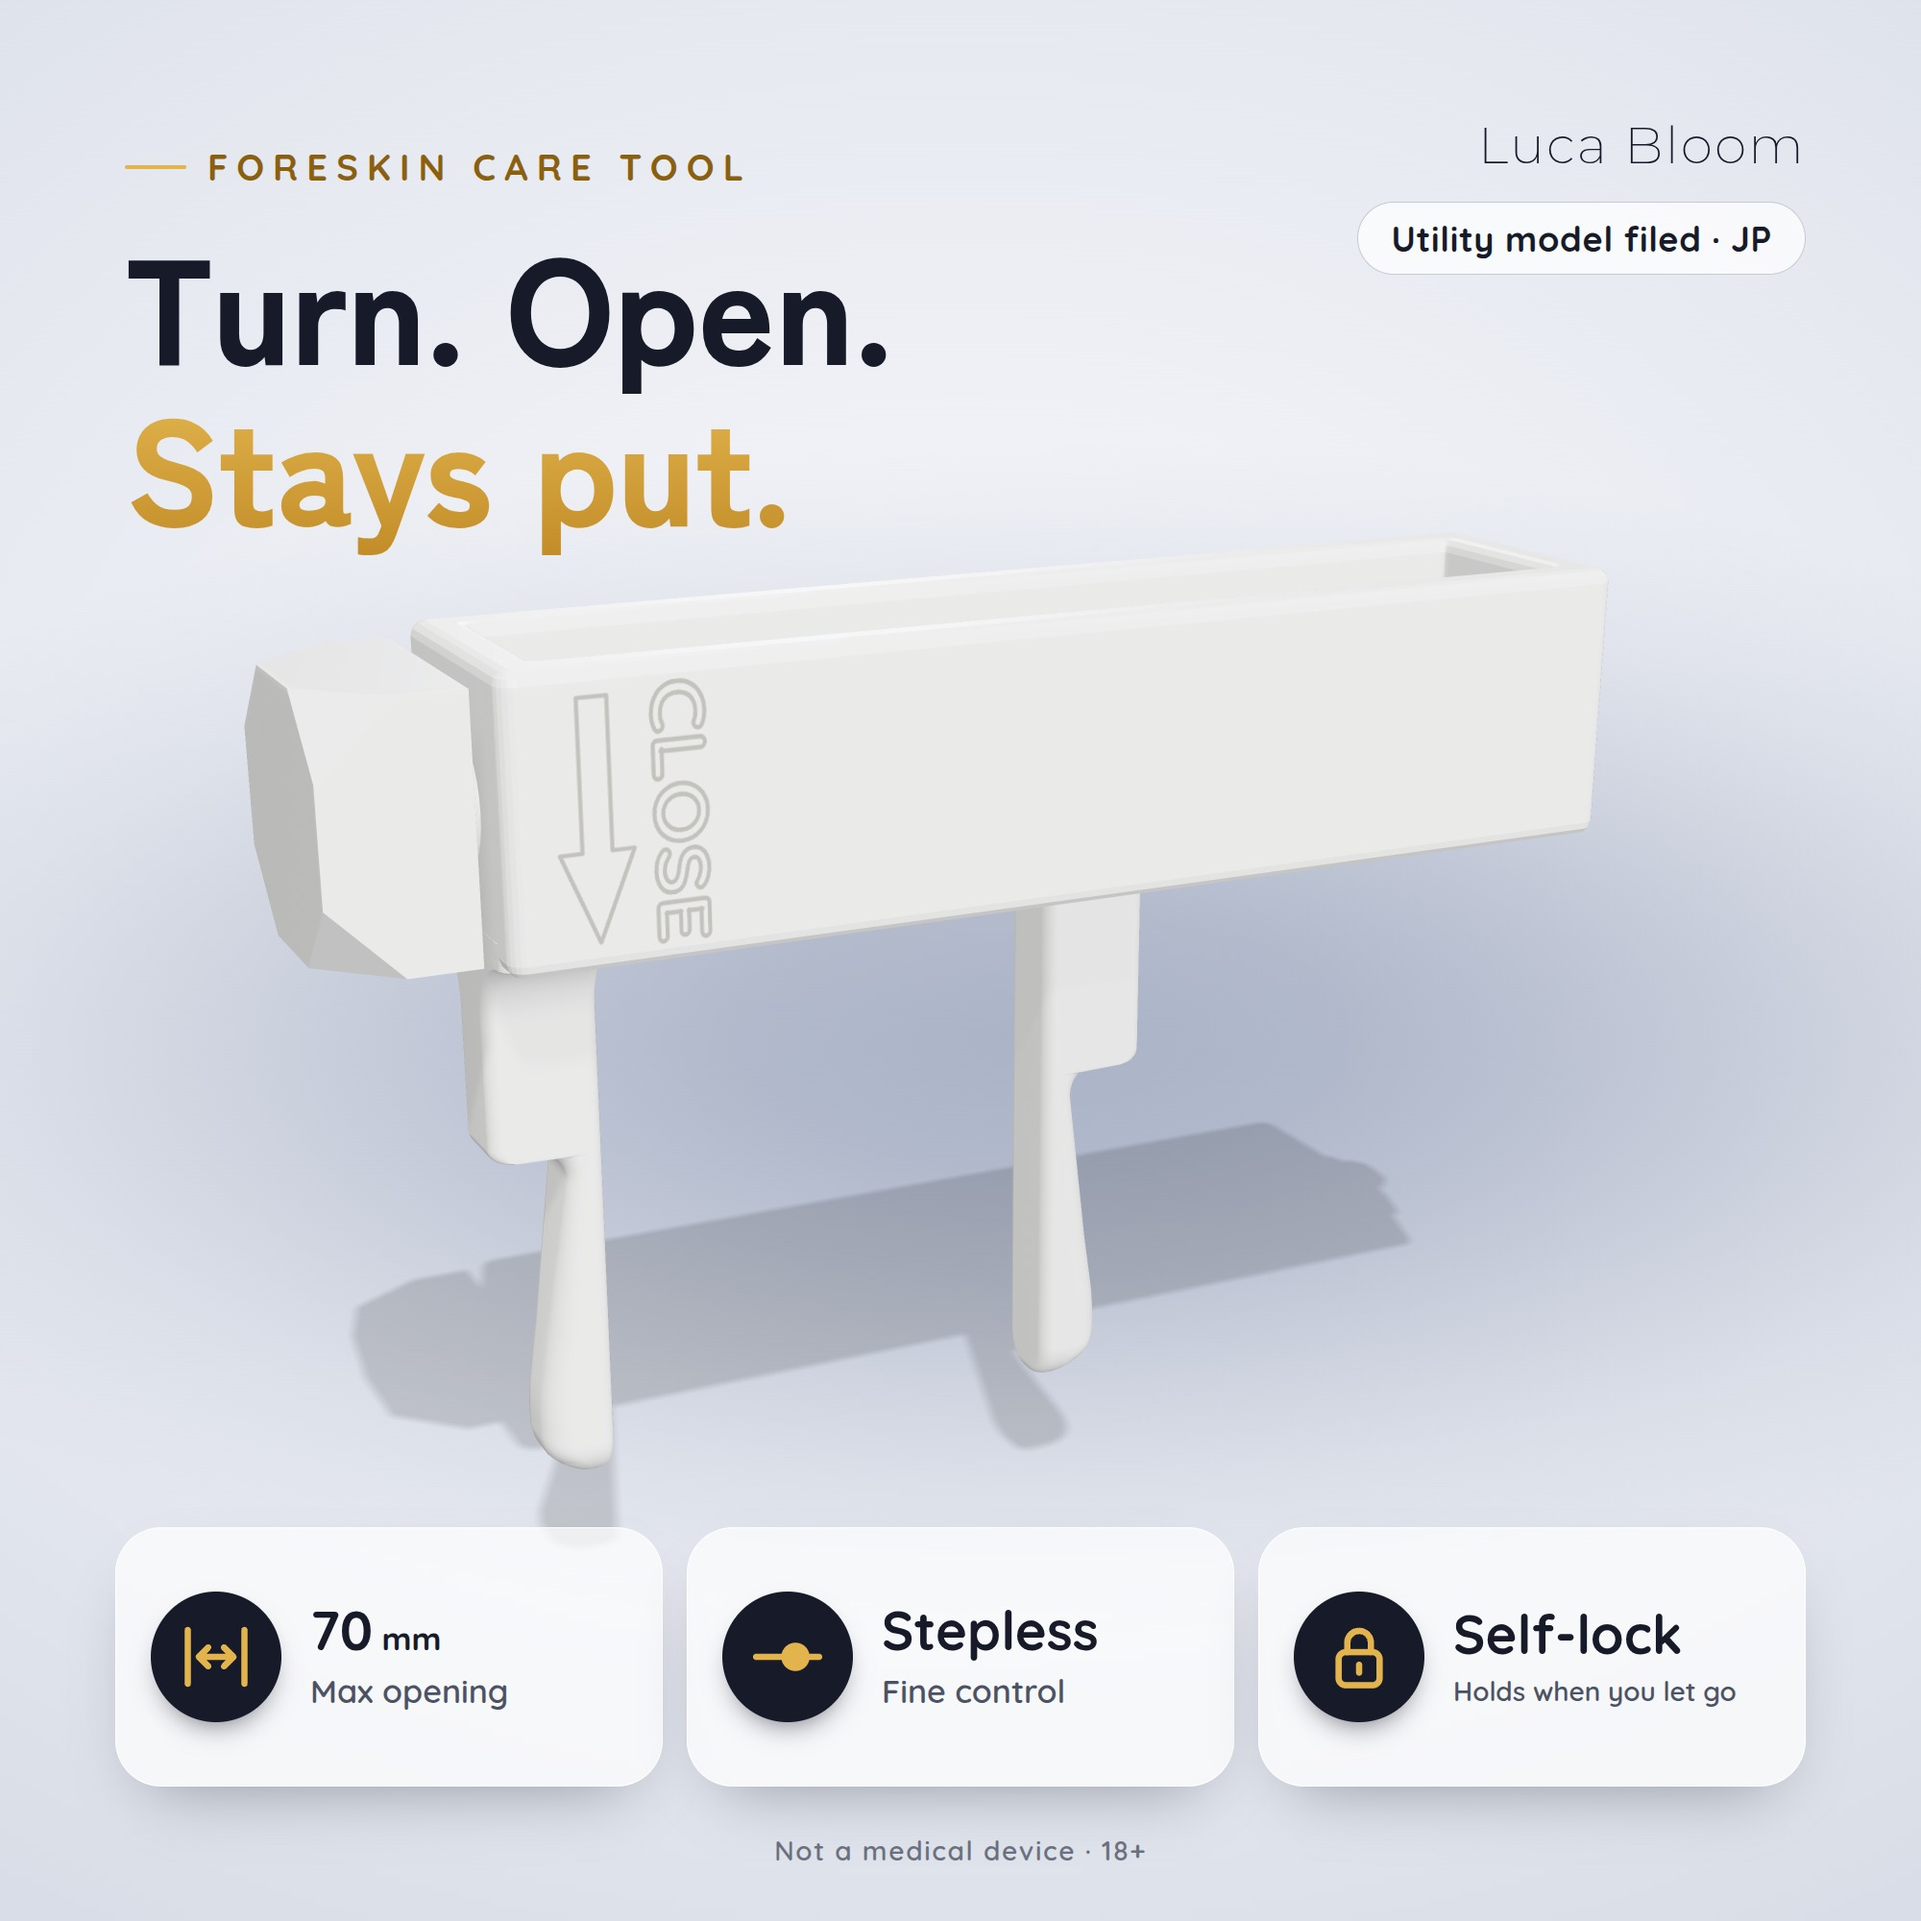
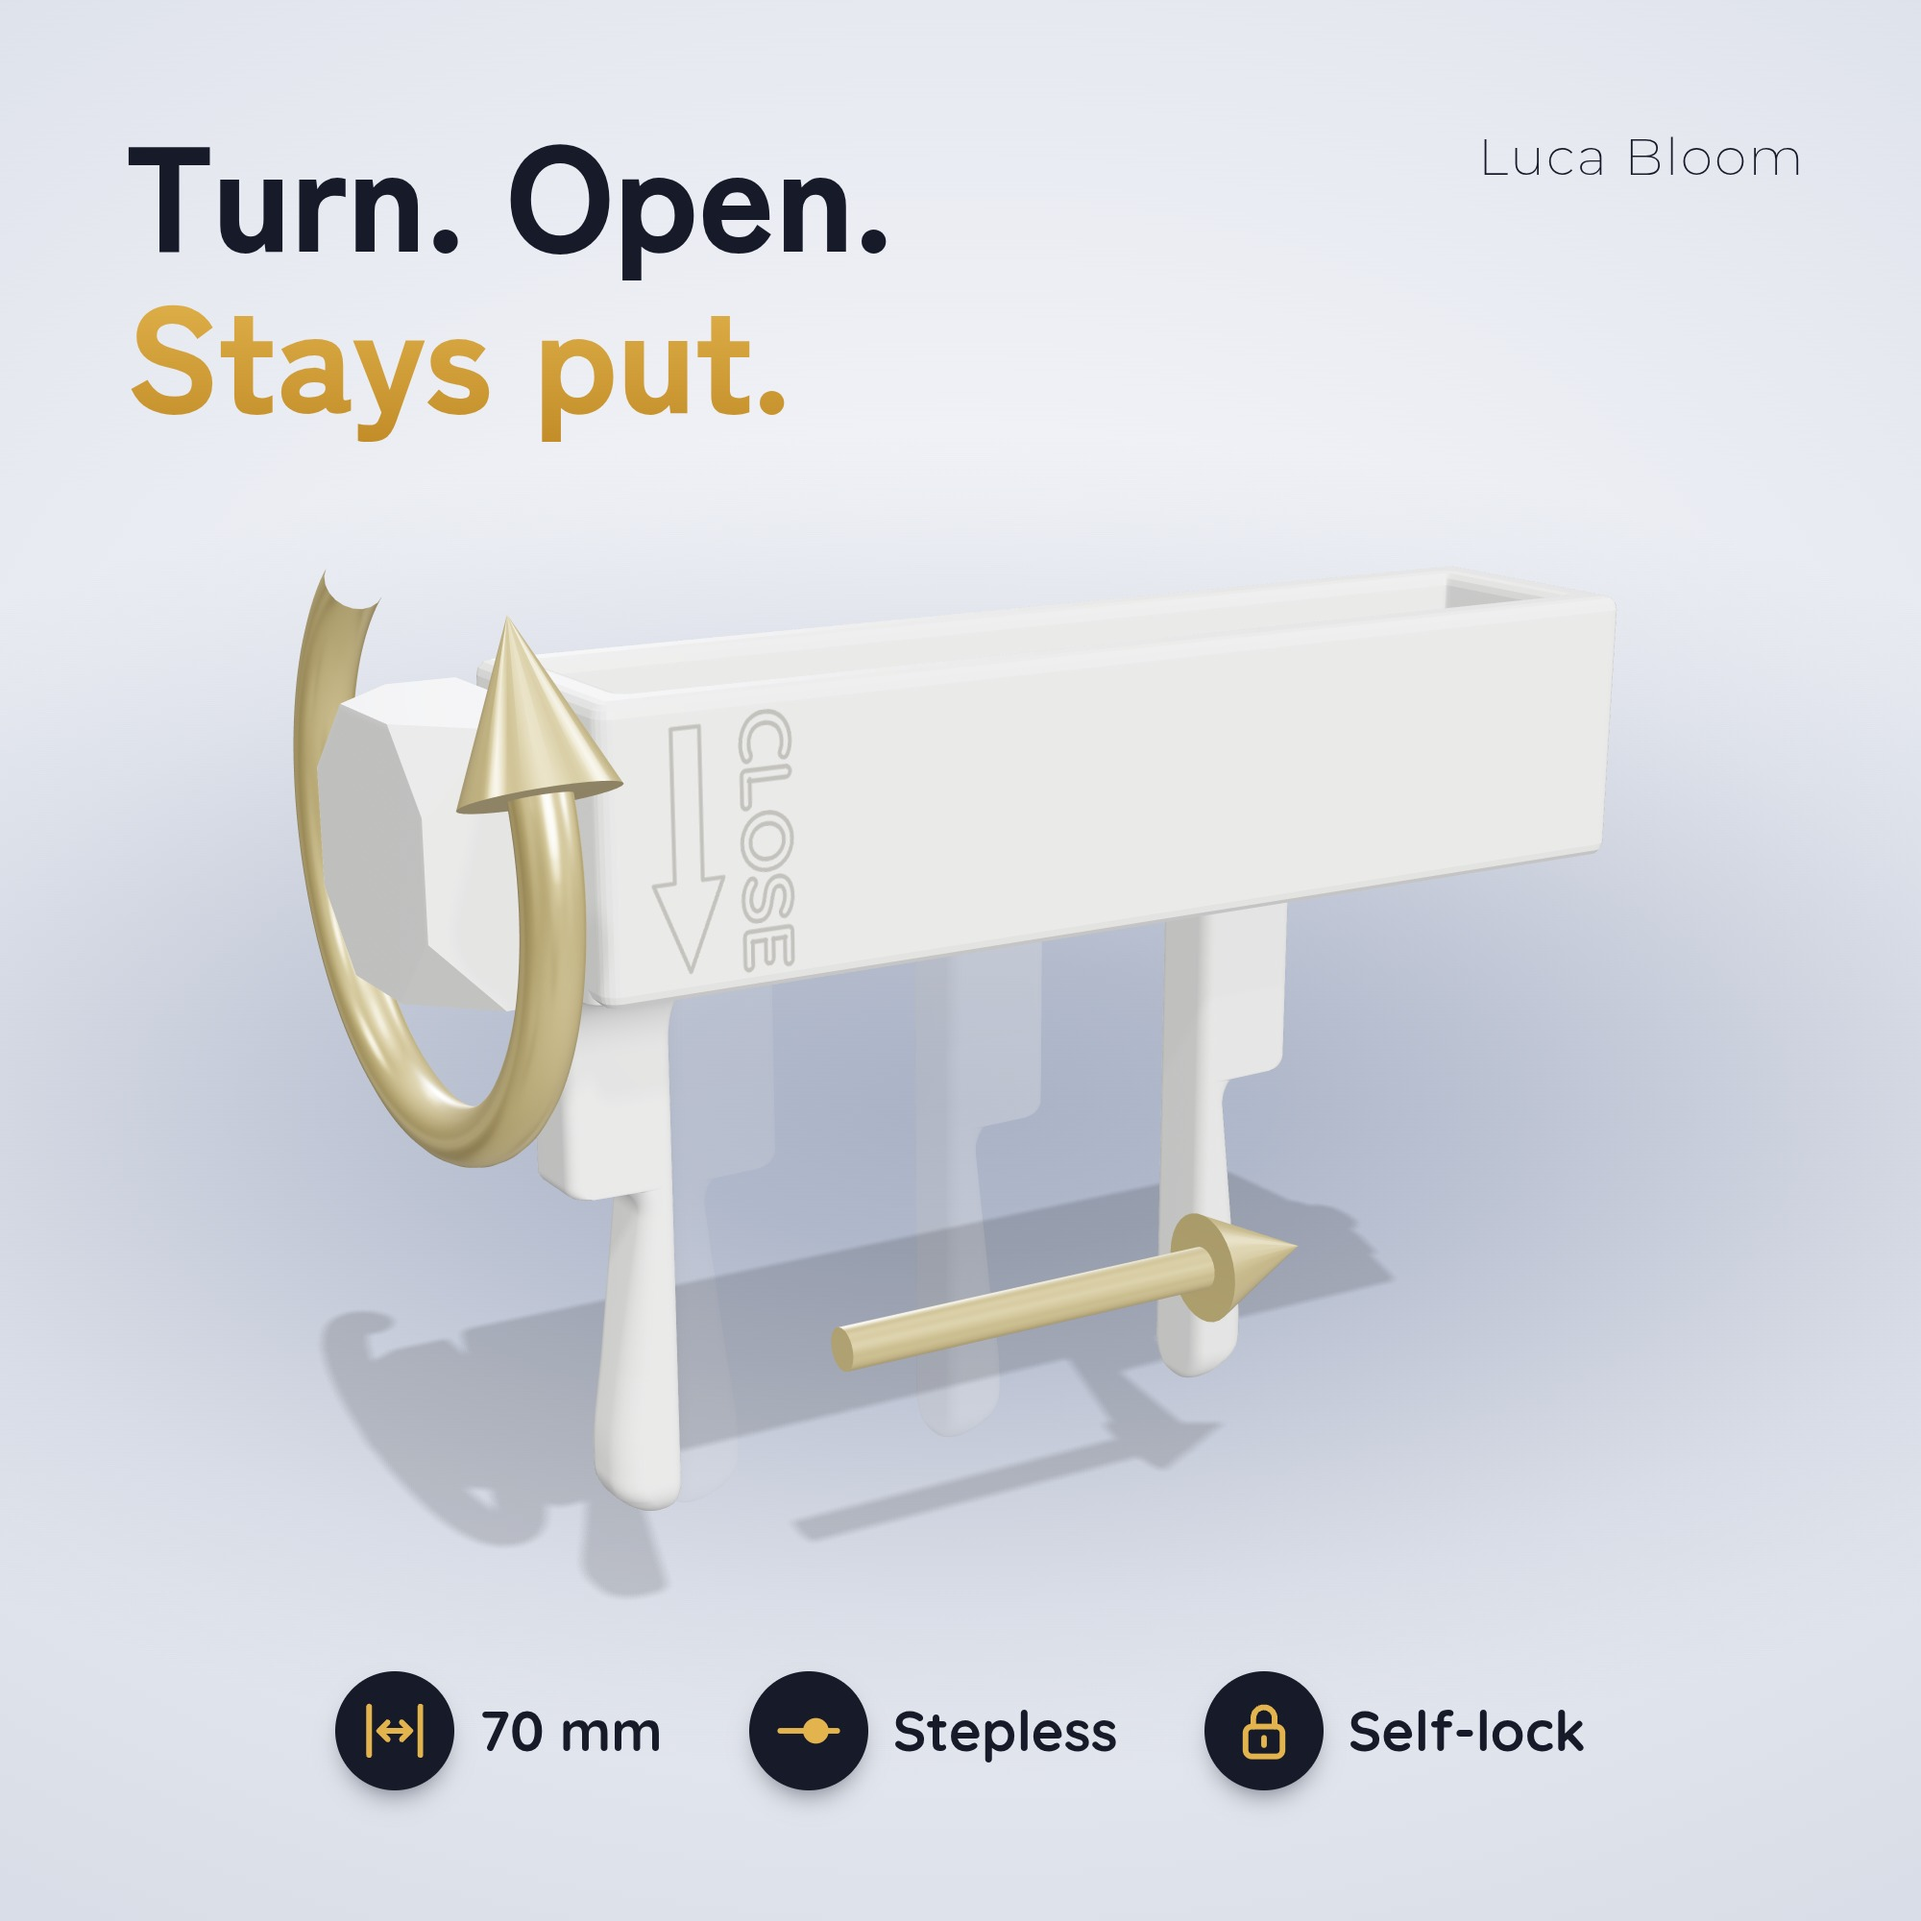
Amazon商品画像の作り直し：文字を見出しと数字だけに、閉じた時の寸法（10mm・くぼみ部5mm）、立体の回転の矢印、2本のアームで膜を押し広げる図、図面どおりのアーム断面
Claude-Session: https://claude.ai/code/session_016YenGTG3x62jvD6ZRQeA6d

diff --git a/tools/amazon/shots.js b/tools/amazon/shots.js
@@ -3,10 +3,14 @@
 import {
   ACESFilmicToneMapping,
   Box3,
+  CatmullRomCurve3,
+  ConeGeometry,
+  CylinderGeometry,
   DirectionalLight,
   Group,
   HemisphereLight,
   Mesh,
+  MeshStandardMaterial,
   NoToneMapping,
   OrthographicCamera,
   PCFSoftShadowMap,
@@ -16,6 +20,7 @@ import {
   Scene,
   ShadowMaterial,
   SRGBColorSpace,
+  TubeGeometry,
   Vector3,
   WebGLRenderer,
 } from 'three';
@@ -74,6 +79,55 @@ device.dev.traverse((o) => {
 // アームの部品（開き幅の寸法線に使う）：固定アーム＝本体に直接付いた x=-34.5 の部品、駆動アーム＝mover の最初の部品
 const fixedArm = device.dev.children.find((o) => o.isMesh && Math.abs(o.position.x + 34.5) < 1e-6);
 const moverArm = device.mover.children[0];
+
+// ---------- 金色の立体の矢印（ハンドルの回転・アームの動き・膜を押し広げる向き） ----------
+const GOLD = new MeshStandardMaterial({ color: 0xe3b34e, metalness: 0.65, roughness: 0.28, envMapIntensity: 1.3 });
+const UP = new Vector3(0, 1, 0);
+// 先端の円すい（位置 p、向き t）
+const tip = (p, t, r, h) => {
+  const m = new Mesh(new ConeGeometry(r, h, 32), GOLD);
+  m.quaternion.setFromUnitVectors(UP, t.clone().normalize());
+  m.position.copy(p).addScaledVector(t.clone().normalize(), h / 2);
+  m.castShadow = true;
+  return m;
+};
+// ハンドルの回転の矢印：ハンドルの軸（x 方向、高さ y=10）を囲む輪。手前側で上へ回る向き＝アームが開く向き
+const turnArrow = new Group();
+{
+  const R = 19;
+  const X = -50;
+  const P = (f) => new Vector3(X, 10 + R * Math.sin(f), R * Math.cos(f));
+  // 奥の上から下を回って手前を上がり、矢じりは手前で上を向く
+  const f0 = (-235 * Math.PI) / 180;
+  const f1 = (20 * Math.PI) / 180;
+  const pts = [];
+  for (let i = 0; i <= 80; i++) pts.push(P(f0 + ((f1 - f0) * i) / 80));
+  const tube = new Mesh(new TubeGeometry(new CatmullRomCurve3(pts), 160, 2, 20, false), GOLD);
+  tube.castShadow = true;
+  turnArrow.add(tube);
+  turnArrow.add(tip(P(f1), new Vector3(0, Math.cos(f1), -Math.sin(f1)), 5, 11));
+}
+device.dev.add(turnArrow);
+// 直線の矢印（a → b）
+const straightArrow = (a, b, r = 1.6) => {
+  const g = new Group();
+  const d = b.clone().sub(a);
+  const len = d.length() - 9;
+  const shaft = new Mesh(new CylinderGeometry(r, r, len, 24), GOLD);
+  shaft.quaternion.setFromUnitVectors(UP, d.clone().normalize());
+  shaft.position.copy(a).addScaledVector(d.clone().normalize(), len / 2);
+  shaft.castShadow = true;
+  g.add(shaft);
+  g.add(tip(a.clone().addScaledVector(d.clone().normalize(), len), d, r * 2.6, 9));
+  return g;
+};
+// アームが開く向き（アームの前、高さ y=-28）
+const moveArrow = straightArrow(new Vector3(-24, -28, 7), new Vector3(16, -28, 7));
+device.dev.add(moveArrow);
+// 膜を左右へ押し広げる向き（膜の口の高さ。位置は shot のたびにアームに合わせる）
+const pushL = new Group();
+const pushR = new Group();
+device.dev.add(pushL, pushR);
 
 function seeThrough(on) {
   const { housing, decal, decalBack } = device;
@@ -151,6 +205,17 @@ window.shot = (o) => {
   updateSleeve(t);
   sleeve.visible = !!o.sleeve;
   seeThrough(!!o.see);
+  turnArrow.visible = !!o.turnArrow;
+  moveArrow.visible = !!o.moveArrow;
+  pushL.clear();
+  pushR.clear();
+  if (o.pushArrows) {
+    const y = o.pushY ?? -22;
+    const xl = -34.5 - 3.6; // 固定アームの外側（くびれ部）
+    const xr = -34.5 + t + 3.6; // 駆動アームの外側
+    pushL.add(straightArrow(new Vector3(xl - 2, y, 0), new Vector3(xl - 16, y, 0), 1.3));
+    pushR.add(straightArrow(new Vector3(xr + 2, y, 0), new Vector3(xr + 16, y, 0), 1.3));
+  }
   ground.visible = o.shadow !== false;
   model.rotation.set(((o.pitch ?? 0) * Math.PI) / 180, ((o.yaw ?? 0) * Math.PI) / 180, 0);
   model.updateMatrixWorld(true);

diff --git a/amazon/README.md b/amazon/README.md
@@ -5,14 +5,15 @@
 
 ## 画像（2000×2000・JPEG・4枚）
 
-細かい説明は動画に任せ、画像は「見て欲しくなる」ことを優先する。大きな 3D の製品、短い英単語の見出し（日本の方にも読める簡単な語）、記号・数字で特長を伝える。
+細かい説明は動画に任せ、画像は「見て欲しくなる」ことを優先する。文字は見出しと数字だけ（簡単な英語）。
+本体・化粧箱・金色の立体の矢印は 3Dモデルで描く。
 
-| ファイル | 見出し | 伝えること |
+| ファイル | 見出し | 見せること |
 |---|---|---|
-| `01-hero.jpg` | Turn. Open. Stays put. | 製品の全体と3つの特長（最大70mm・無段階・手を離しても止まる） |
-| `02-open.jpg` | Opens up to 70 mm. | ハンドルを回すと2本のアームが平行に開く（1回転2mm）。無段階で、手を離すとその幅で止まる |
-| `03-arms.jpg` | Wide tips. Stays in place. | 先端が太い「逆テーパー」のアームと、幅6mm・角R2の平らな面 |
-| `04-privacy.jpg` | Discreet by design. | 化粧箱は「Luca Bloom」の文字だけ・外箱に入れて発送・日本で検品と組立。寸法・素材・製造国（中国）・18歳以上 |
+| `01-hero.jpg` | Turn. Open. Stays put. | ハンドルを囲む立体の回転の矢印と、アームが開く動き（残像）。70 mm・Stepless・Self-lock |
+| `02-size.jpg` | 10 → 70 mm | 閉じた時（先端の外側10mm・くぼみ部5mm）と、開いた時（70mm）。ハンドル1回転で2mm |
+| `03-hold.jpg` | Wide tips. Stays in place. | 2本のアームが膜（ピンク）を内側から押し広げ、膜の口はくびれ部に収まる。アームの断面（図面どおり：幅6mm×厚さ5mm、肌側の角R2・内側R1） |
+| `04-privacy.jpg` | Discreet by design. | 「Luca Bloom」の文字だけの化粧箱と、専用のクッション材に収まった本体。製造国（中国）・日本で検品と組立・18歳以上 |
 
 Amazon の**メイン画像（1枚目）は白い背景・文字なしの製品写真**の決まりがあるため、この4枚は2枚目以降に使う。
 
